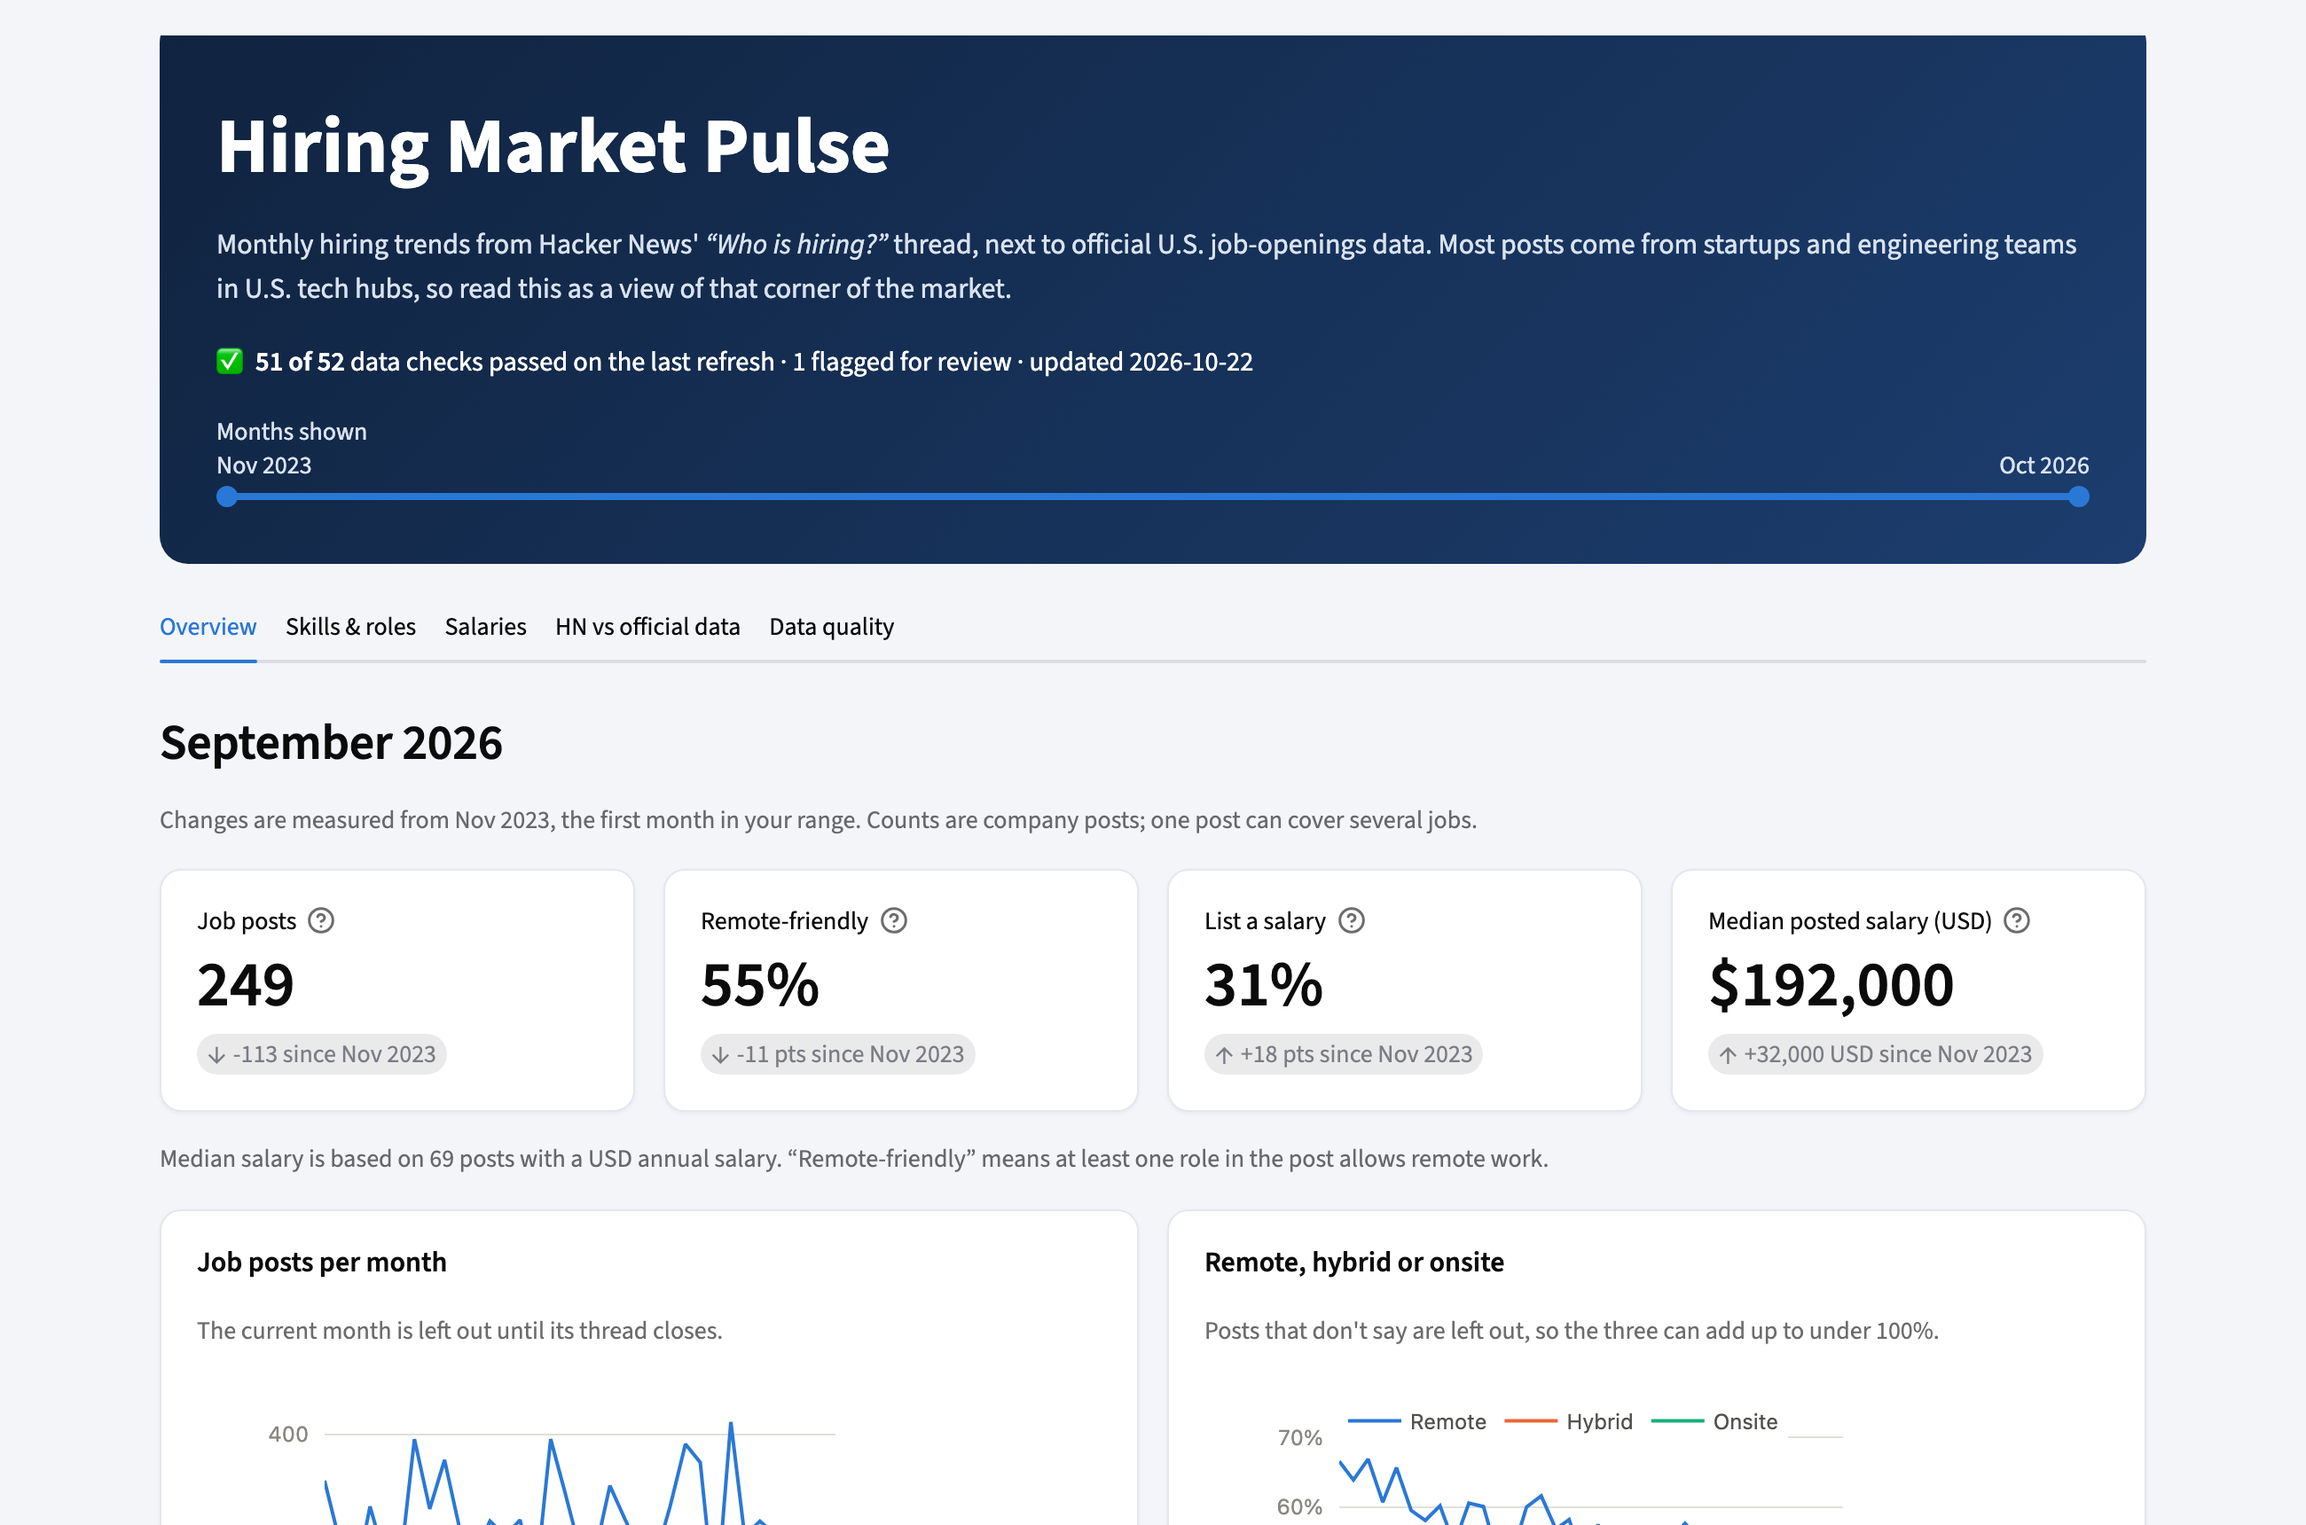
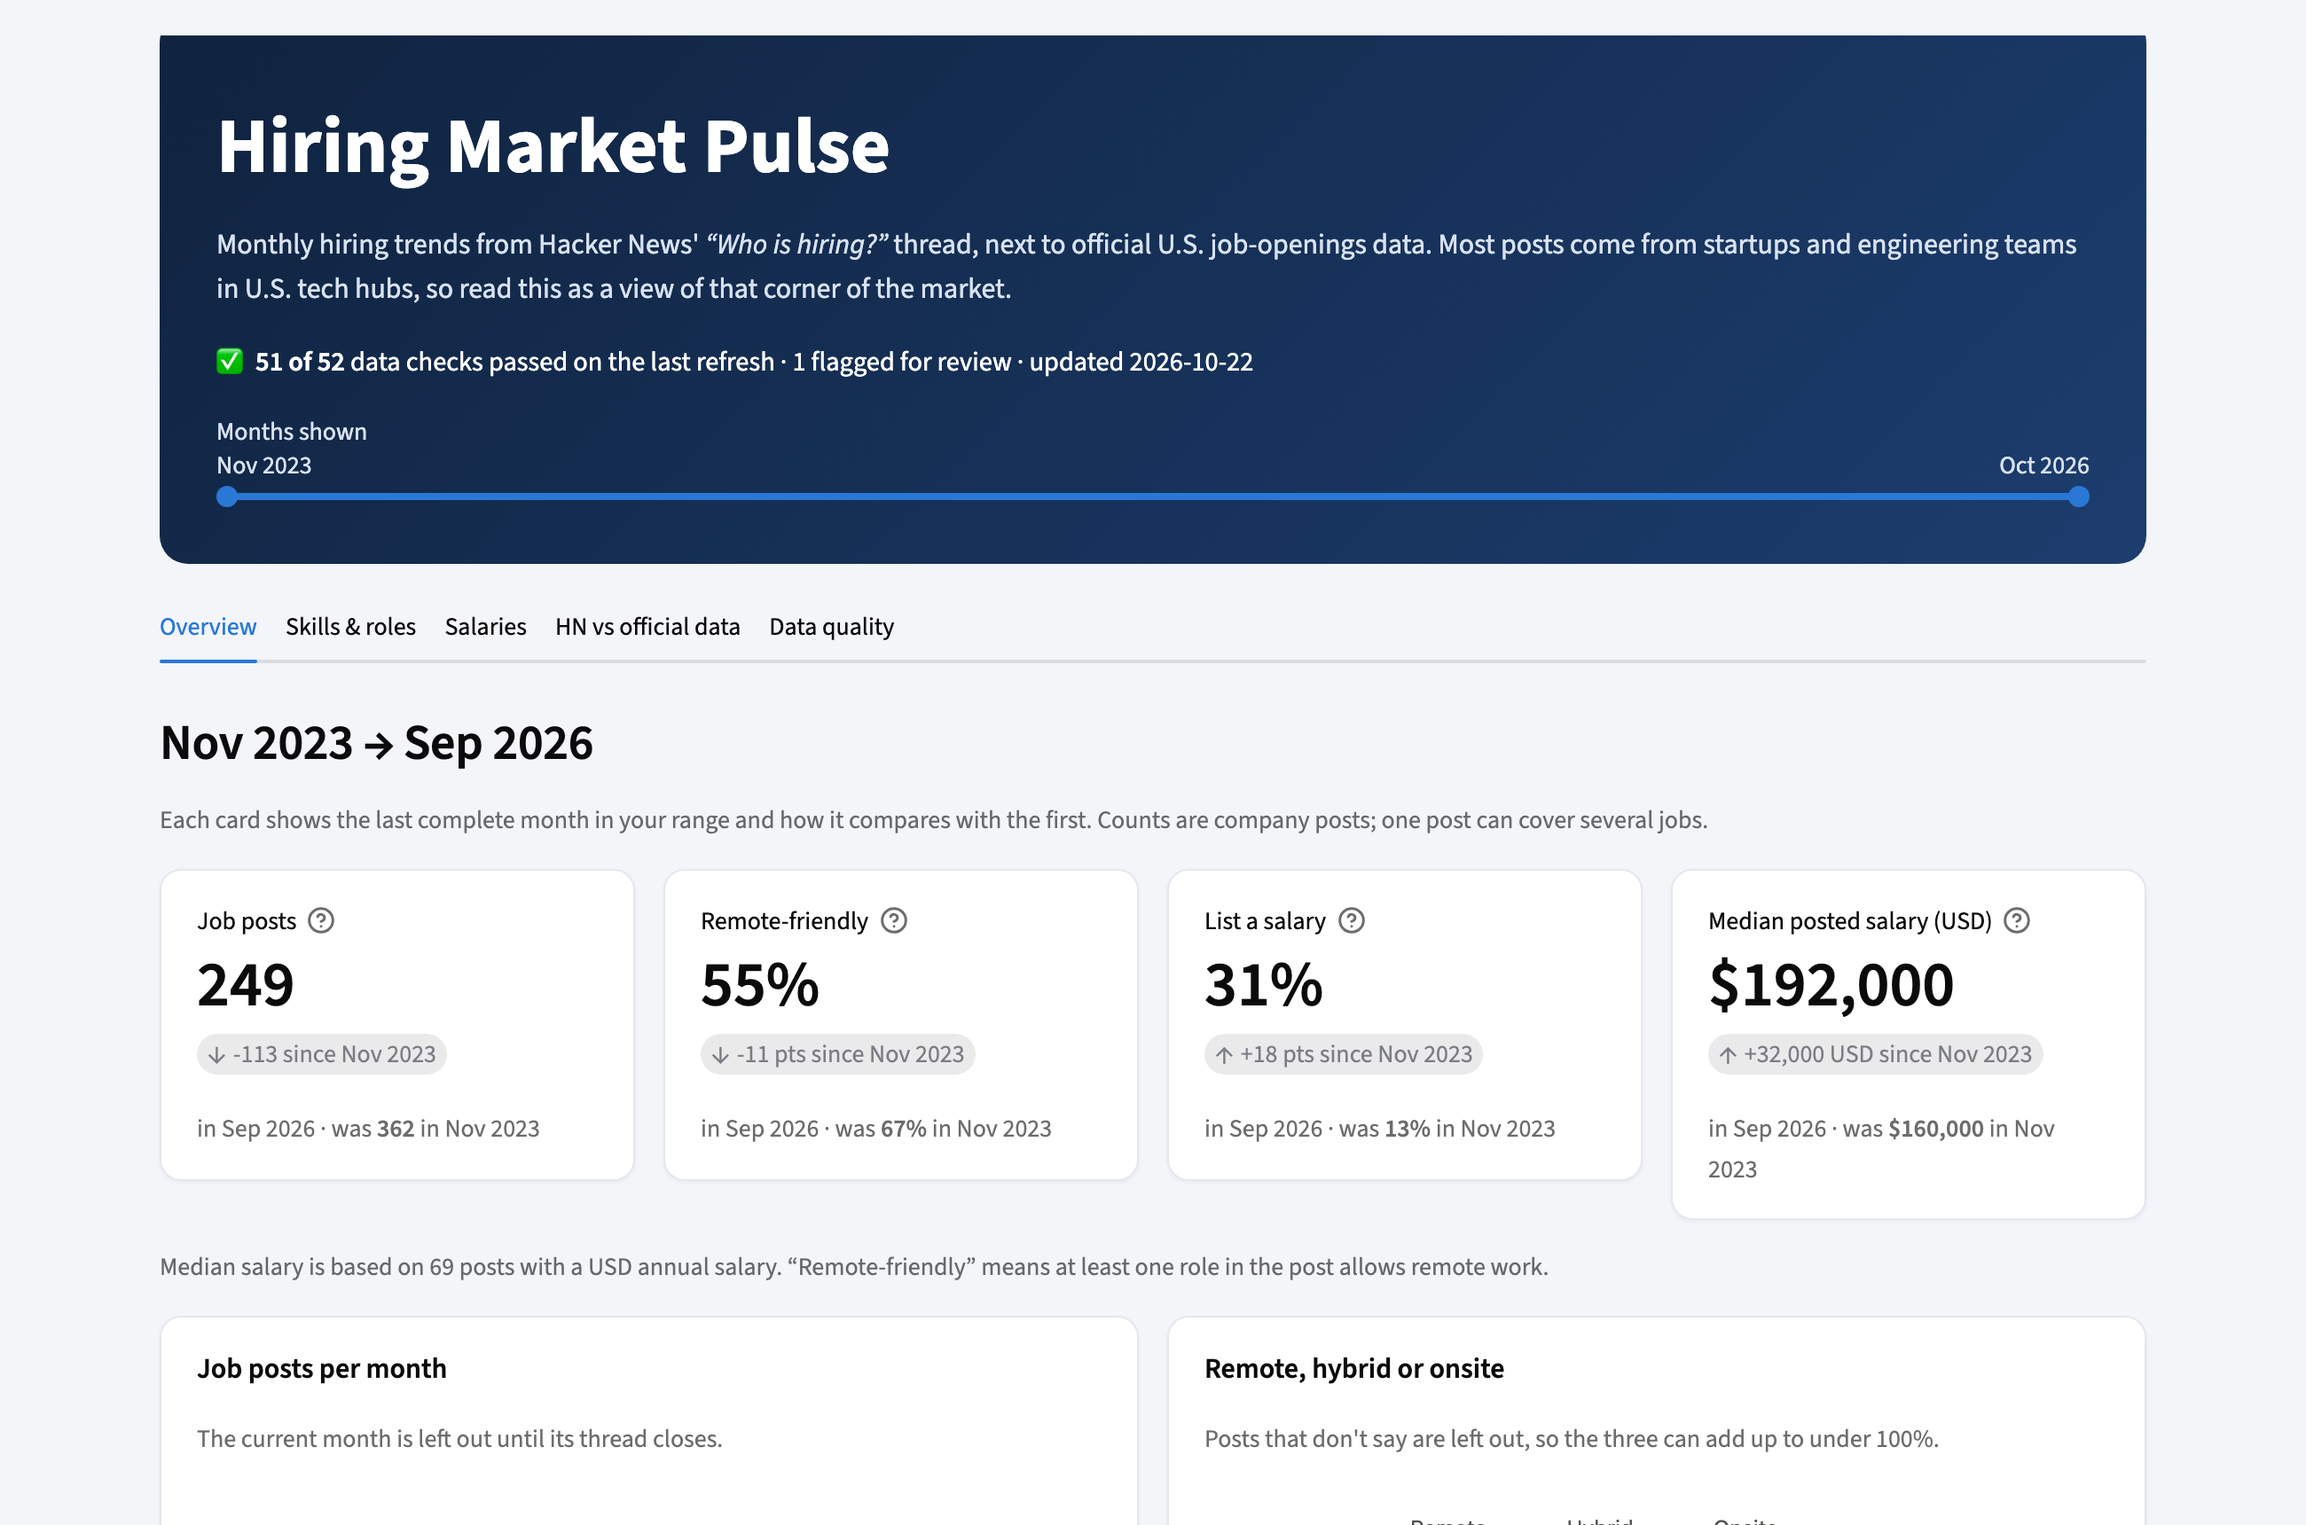
feat: KPI cards show both ends of the range; stop warehouse table churn; pre-commit; CI/CD docs
- KPI cards: heading 'Nov 2023 -> Sep 2026', big number = end month, a second
  line shows the start month's value, so either slider thumb visibly changes a
  number; delta pill shortened
- Databricks quota: dropped objects count toward the 500-table limit for 7
  days. dbt staging moved from views (dropped and recreated every build) to
  tables (replaced in place); CI and the mutation check reuse per-PR schemas,
  dropped once by ci-cleanup.yml when the PR closes. Measured: 0 new dropped
  objects per repeated build (was 5 per build, ~70 per mutation run)
- pre-commit hooks (ruff, format, mypy, tsc, whitespace/yaml); CI runs the
  same hooks so local and CI checks can't drift
- README: CI/CD section with pipeline diagram, workflow table, badges

diff --git a/e2e/tests/dashboard.spec.ts b/e2e/tests/dashboard.spec.ts
@@ -22,8 +22,7 @@ test.describe('overview', () => {
 
   test('KPIs show the latest complete month vs the start of the range', async ({ page }) => {
     await openDashboard(page);
-    await expect(byKey(page, 'overview-heading')).toContainText('September 2026');
-    await expect(byKey(page, 'overview-heading')).toContainText('measured from Sep 2025');
+    await expect(byKey(page, 'overview-heading')).toContainText('Sep 2025 → Sep 2026');
     const kpi = (key: string) => byKey(page, `kpi-${key}`);
     await expect(kpi('posts').getByTestId('stMetricValue')).toHaveText('10');
     await expect(kpi('remote').getByTestId('stMetricValue')).toHaveText('60%');
@@ -32,7 +31,7 @@ test.describe('overview', () => {
     await expect(kpi('salary-share').getByTestId('stMetricDelta')).toContainText('+10 pts');
     await expect(kpi('median-salary').getByTestId('stMetricValue')).toHaveText('$180,000');
     await expect(kpi('median-salary').getByTestId('stMetricDelta')).toContainText('+10,000 USD');
-    await expect(kpi('posts').getByTestId('stMetricDelta')).toContainText('since Sep 2025');
+    await expect(kpi('salary-share')).toContainText('in Sep 2026 · was 10% in Sep 2025');
   });
 
   // Found in review: the KPIs ignored the date filter.
@@ -44,8 +43,12 @@ test.describe('overview', () => {
     await start.press('ArrowRight'); // Sep 2025 -> Nov 2025
     await waitForIdle(page);
     const kpi = (key: string) => byKey(page, `kpi-${key}`);
-    await expect(kpi('posts').getByTestId('stMetricDelta')).toContainText('-4 since Nov 2025');
+    await expect(kpi('posts').getByTestId('stMetricDelta')).toHaveText(/-4$/);
     await expect(kpi('remote').getByTestId('stMetricDelta')).toContainText('-19 pts');
+    // Found in review: moving the start thumb changed only the small pill. The start month's
+    // value is now shown too, so the change is visible.
+    await expect(kpi('remote')).toContainText('was 79% in Nov 2025');
+    await expect(byKey(page, 'overview-heading')).toContainText('Nov 2025 → Sep 2026');
   });
 
   test('KPIs follow the end of the date range', async ({ page }) => {
@@ -55,7 +58,7 @@ test.describe('overview', () => {
     await end.press('ArrowLeft');
     await end.press('ArrowLeft'); // Oct 2026 -> Aug 2026
     await waitForIdle(page);
-    await expect(byKey(page, 'overview-heading')).toContainText('August 2026');
+    await expect(byKey(page, 'overview-heading')).toContainText('Sep 2025 → Aug 2026');
     await expect(byKey(page, 'kpi-posts').getByTestId('stMetricValue')).toHaveText('11');
     // August had no USD salaries in the fixture: the median shows a dash, not a stale number.
     await expect(byKey(page, 'kpi-median-salary').getByTestId('stMetricValue')).toHaveText('–');

diff --git a/scripts/dbt_mutation_check.py b/scripts/dbt_mutation_check.py
@@ -5,7 +5,9 @@ models upstream of the target test are rebuilt, and the run must report that tes
 as FAILED. A test that still passes on corrupted data is a test that can't fail.
 
 Usage: uv run python scripts/dbt_mutation_check.py --source-schema pulse_dev_raw
-Needs DATABRICKS_* env vars. Leaves no schemas behind.
+Needs DATABRICKS_* env vars. The mutant schemas (<source>_mut, <source>_mut_dbt) are kept and
+reused: every table in them is rewritten in place on each run. Dropping them after each run
+would count every table against the workspace's table quota for 7 days.
 """
 
 from __future__ import annotations
@@ -18,7 +20,7 @@ import sys
 from dataclasses import dataclass
 from pathlib import Path
 
-from pulse.warehouse import CATALOG, DATASETS, connect, drop_schemas
+from pulse.warehouse import CATALOG, DATASETS, connect
 
 DBT_DIR = Path(__file__).resolve().parents[1] / "dbt"
 
@@ -178,20 +180,17 @@ def main() -> int:
         copy_tables(cur, src, mut, tables)
 
     survivors = []
-    try:
-        for m in MUTATIONS:
-            with connect() as conn, conn.cursor() as cur:
-                for stmt in m.sql:
-                    cur.execute(stmt.format(s=f"{CATALOG}.{mut}"))
-            status = run_dbt(m.test, mut, mut_dbt)
-            caught = status in {"fail", "error"}
-            print(f"{'CAUGHT ' if caught else 'MISSED '} {m.name:<34} -> {m.test} [{status}]")
-            if not caught:
-                survivors.append(m.name)
-            with connect() as conn, conn.cursor() as cur:  # restore for the next mutation
-                copy_tables(cur, src, mut, m.tables)
-    finally:
-        drop_schemas(mut, mut_dbt)
+    for m in MUTATIONS:
+        with connect() as conn, conn.cursor() as cur:
+            for stmt in m.sql:
+                cur.execute(stmt.format(s=f"{CATALOG}.{mut}"))
+        status = run_dbt(m.test, mut, mut_dbt)
+        caught = status in {"fail", "error"}
+        print(f"{'CAUGHT ' if caught else 'MISSED '} {m.name:<34} -> {m.test} [{status}]")
+        if not caught:
+            survivors.append(m.name)
+        with connect() as conn, conn.cursor() as cur:  # restore for the next mutation
+            copy_tables(cur, src, mut, m.tables)
 
     print(f"\n{len(MUTATIONS) - len(survivors)}/{len(MUTATIONS)} mutations caught")
     return 1 if survivors else 0

diff --git a/app/streamlit_app.py b/app/streamlit_app.py
@@ -148,12 +148,15 @@ with tab_overview:
     else:
         since = f"{result.compared_with:%b %Y}" if result.compared_with is not None else None
         with st.container(key="overview-heading"):
-            st.subheader(f"{result.month:%B %Y}")
+            # Both ends of the range are on screen, so moving either slider thumb visibly
+            # changes a number (the big figure is the end month, the line under it the start).
+            st.subheader(f"{since} → {result.month:%b %Y}" if since else f"{result.month:%B %Y}")
             st.caption(
                 (
-                    f"Changes are measured from {since}, the first month in your range. "
+                    "Each card shows the last complete month in your range and how it compares "
+                    "with the first. "
                     if since
-                    else "Pick a wider range to see changes over time. "
+                    else "Pick a wider range to compare two months. "
                 )
                 + "Counts are company posts; one post can cover several jobs."
             )
@@ -179,11 +182,15 @@ with tab_overview:
         for col, k in zip(cols, result.kpis, strict=True):
             key, value_fmt, delta_fmt = kpi_formats[k.label]
             with col, st.container(key=f"kpi-{key}"):
-                delta = None if k.delta is None else f"{delta_fmt(k.delta)} since {since}"
+                delta = None if k.delta is None else delta_fmt(k.delta)
                 # Neutral color: more remote work or fewer posts isn't inherently good or bad.
                 st.metric(
                     k.label, value_fmt(k.value), delta, delta_color="off", help=kpi_help[k.label]
                 )
+                if since:
+                    st.caption(
+                        f"in {result.month:%b %Y} · was **{value_fmt(k.previous)}** in {since}"
+                    )
         with st.container(key="kpi-notes"):
             st.caption(
                 f"Median salary is based on {plural(salary_n, 'post')} with a USD annual "

diff --git a/README.md b/README.md
@@ -2,6 +2,8 @@
 
 [![CI](https://github.com/wacsvn/hiring-market-pulse/actions/workflows/ci.yml/badge.svg)](https://github.com/wacsvn/hiring-market-pulse/actions/workflows/ci.yml)
 [![Refresh data](https://github.com/wacsvn/hiring-market-pulse/actions/workflows/refresh.yml/badge.svg)](https://github.com/wacsvn/hiring-market-pulse/actions/workflows/refresh.yml)
+[![Docs](https://github.com/wacsvn/hiring-market-pulse/actions/workflows/docs.yml/badge.svg)](https://github.com/wacsvn/hiring-market-pulse/actions/workflows/docs.yml)
+[![Live smoke test](https://github.com/wacsvn/hiring-market-pulse/actions/workflows/live-smoke.yml/badge.svg)](https://github.com/wacsvn/hiring-market-pulse/actions/workflows/live-smoke.yml)
 
 **[Live dashboard](https://hiring-market-pulse.streamlit.app/)** ·
 **[Data model docs](https://wacsvn.github.io/hiring-market-pulse/)** ·
@@ -93,13 +95,13 @@ flowchart LR
 | Layer | What runs | Where |
 |---|---|---|
 | Inputs | Data contracts on every record; quarantine with reasons; quarantine-rate limit | [`contracts.py`](src/pulse/contracts.py), [dbt test](dbt/tests/assert_quarantine_rate_below_5pct.sql) |
-| Python | 79 pytest tests on recorded API responses, incl. property-based salary parsing | [`tests/`](tests) |
+| Python | 85 pytest tests on recorded API responses, incl. property-based salary parsing | [`tests/`](tests) |
 | Field extraction | Accuracy audit on 50 sampled posts, scored per field; CI fails if any field drops more than 2 points below the committed baseline | [`evals/`](evals) |
 | Data | 52 dbt tests: uniqueness, relationships, accepted values, salary rules, no missing months, freshness, schema drift, cross-source divergence (warn) | [`dbt/`](dbt) |
 | Data tests themselves | Mutation check: corrupts a copy of the data 11 ways; each matching test must fail (11/11) | [`dbt_mutation_check.py`](scripts/dbt_mutation_check.py) |
-| Dashboard | 13 Playwright tests against frozen fixture data: KPIs and their sample-size warnings, filters, chart contents, color stability, empty and unreachable-data states | [`e2e/`](e2e) |
+| Dashboard | 16 Playwright tests against frozen fixture data: KPIs following the date range, sample-size warnings, chart contents, color stability, empty and unreachable-data states | [`e2e/`](e2e) |
 | Deployed app | Daily smoke test of the live site after each refresh | [`live-smoke.yml`](.github/workflows/live-smoke.yml) |
-| CI | Lint, types, tests, dbt in per-PR Databricks schemas (always dropped), e2e; mutation check when data tests change | [`.github/workflows/`](.github/workflows) |
+| CI/CD | Every PR must pass all checks before it can merge; see below | [`.github/workflows/`](.github/workflows) |
 
 ### Accuracy audit of the extracted fields
 
@@ -161,6 +163,45 @@ Bugs these checks caught during development:
 - Plural job titles ("Software Engineers") missed by the role extractor.
 - "go" the verb counted as the Go language.
 - Test fixtures that breached the pipeline's own quarantine limit.
+
+## CI/CD
+
+Every change goes through a pull request, and `main` is protected: a PR can't merge until
+the required checks pass. After merge, the app, data, and docs deploy themselves.
+
+```mermaid
+flowchart LR
+  subgraph PR["On every pull request (required to merge)"]
+    direction TB
+    L["Pre-commit hooks<br/>lint, format, types"] --> U["85 unit tests<br/>+ extractor accuracy gate"]
+    S[Scrub check]
+    D["dbt build + 52 data tests<br/>in the PR's own Databricks schema"]
+    E["16 Playwright tests<br/>against the dashboard"]
+    M["Mutation check<br/>(when data tests change)"]
+  end
+  PR --> MERGE([merge to main])
+  MERGE --> APP[Streamlit app redeploys]
+  MERGE --> DOCS[dbt docs site republishes]
+  subgraph DAILY["Daily"]
+    direction TB
+    R["Refresh: ingest → load → dbt build"] -->|all tests pass| PUB[Publish data to the app]
+    R -->|a test fails| ISS[Open an issue, keep last good data]
+    PUB --> DOCS2[Republish docs]
+    SMOKE[Smoke test the live site]
+  end
+```
+
+| Workflow | Trigger | What it gates or delivers |
+|---|---|---|
+| [`ci.yml`](.github/workflows/ci.yml) | every PR and push to `main` | Required checks: pre-commit hooks (lint, format, types), unit tests and the accuracy gate, scrub check, dbt build with all data tests in a per-PR Databricks schema, Playwright e2e |
+| [`data-test-mutations.yml`](.github/workflows/data-test-mutations.yml) | PRs touching dbt, weekly | Proves the data tests catch 11 kinds of injected faults |
+| [`refresh.yml`](.github/workflows/refresh.yml) | daily | Rebuilds everything from the APIs; publishes only if every hard test passes, otherwise opens an issue |
+| [`docs.yml`](.github/workflows/docs.yml) | dbt changes, after each refresh | Publishes the [data model docs](https://wacsvn.github.io/hiring-market-pulse/) |
+| [`live-smoke.yml`](.github/workflows/live-smoke.yml) | daily | Loads the deployed dashboard and checks every tab renders |
+| [`ci-cleanup.yml`](.github/workflows/ci-cleanup.yml) | PR closed | Drops the PR's Databricks schemas |
+
+The same lint and type checks run locally before each commit (`uv run pre-commit install`),
+so "passes on my machine" and "passes in CI" mean the same thing.
 
 ## Run it locally
 
